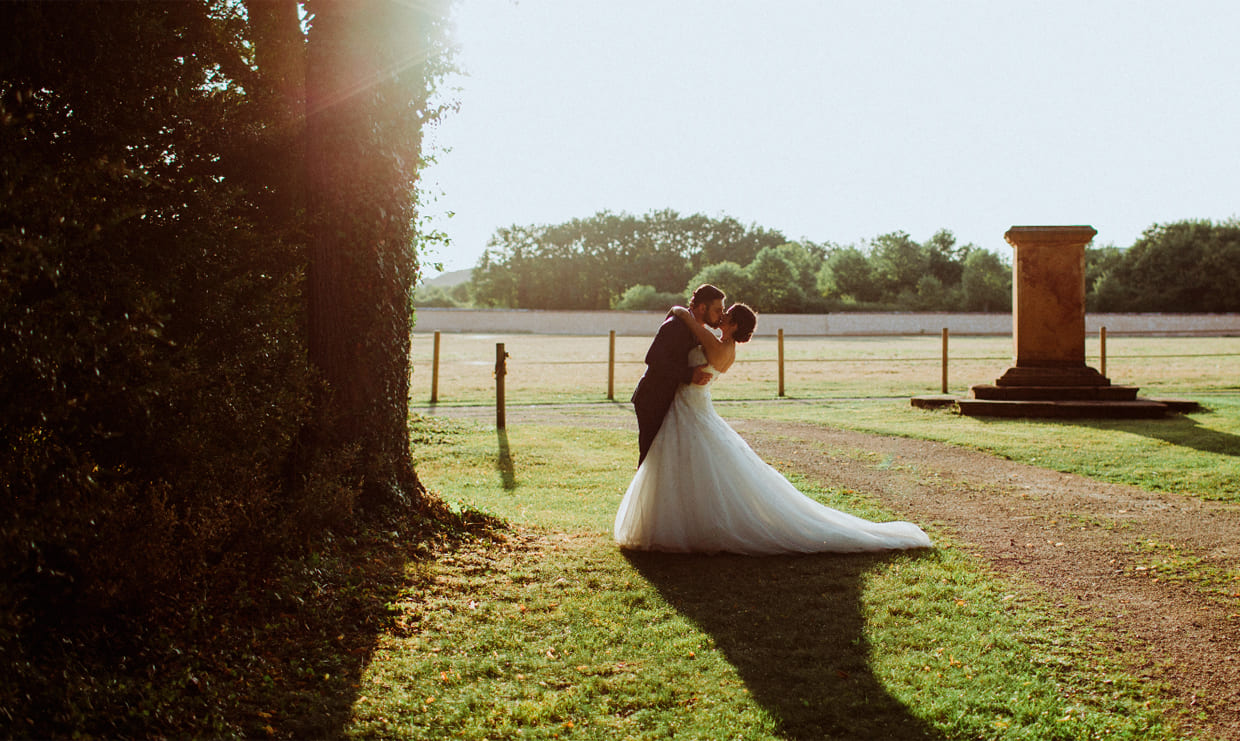
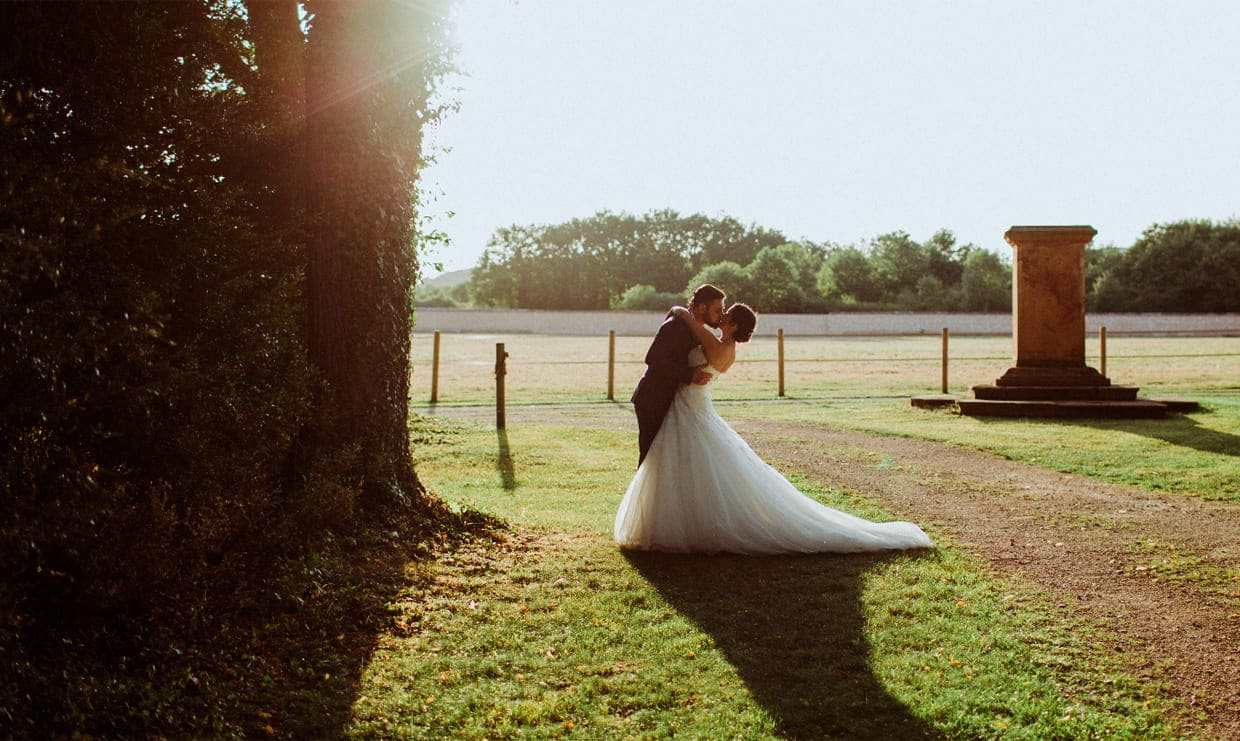
compress again

diff --git a/_includes/footer.html b/_includes/footer.html
@@ -14,7 +14,7 @@
 
     <div class="footer__block">
       <div class="footer__image">
-        <img class="centered-crop-image" src="{{ site.baseurl}}/assets/images/00_CDL_Footer_image.png" alt="Cheval du domaine Clos des Liesses" data-aos="fade">
+        <img class="centered-crop-image" src="{{ site.baseurl}}/assets/images/00_CDL_Footer_image.jpg" alt="Cheval du domaine Clos des Liesses" data-aos="fade">
       </div>
       <p class="footer__text-reco footer__text-reco--margin-top">Ils nous recommandent</p>
       <div class="footer__reco-container" data-aos="fade-right">
